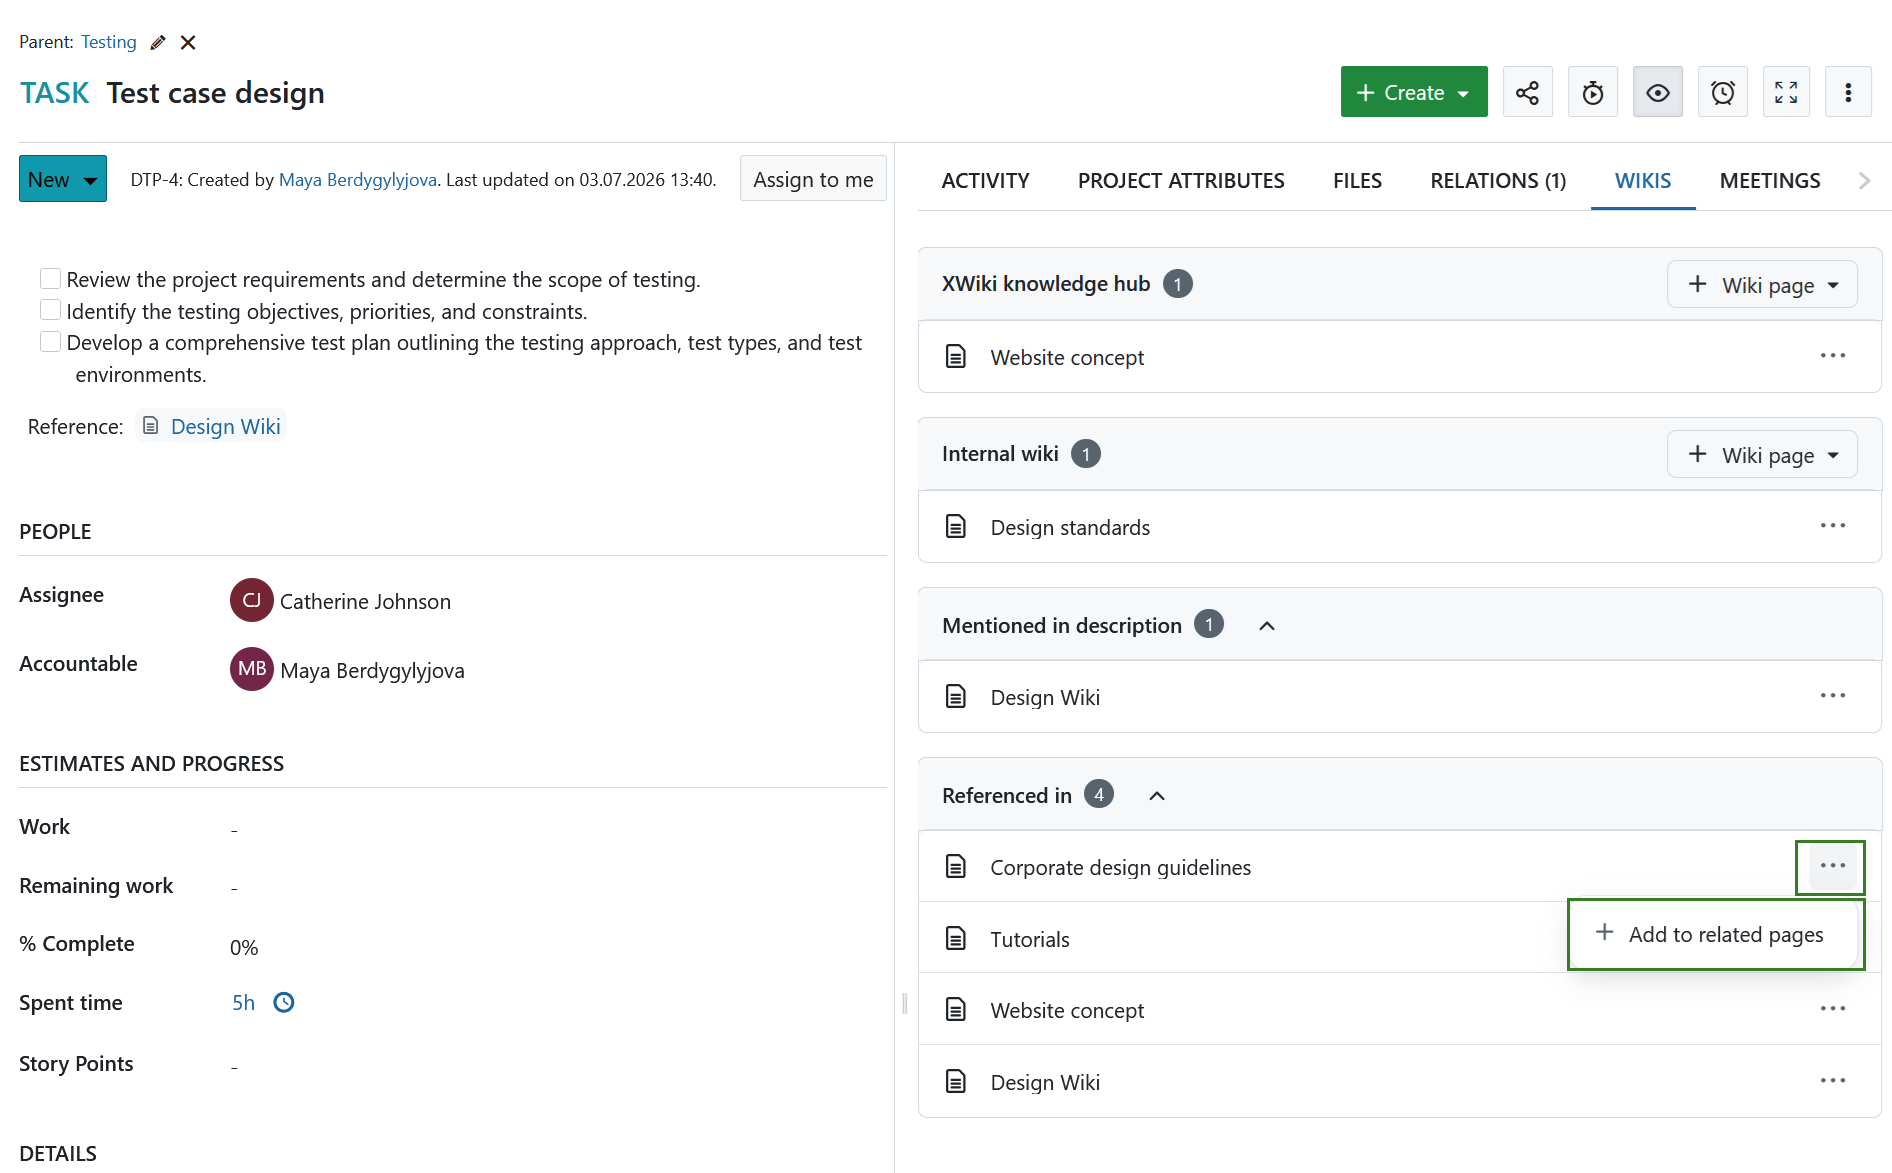
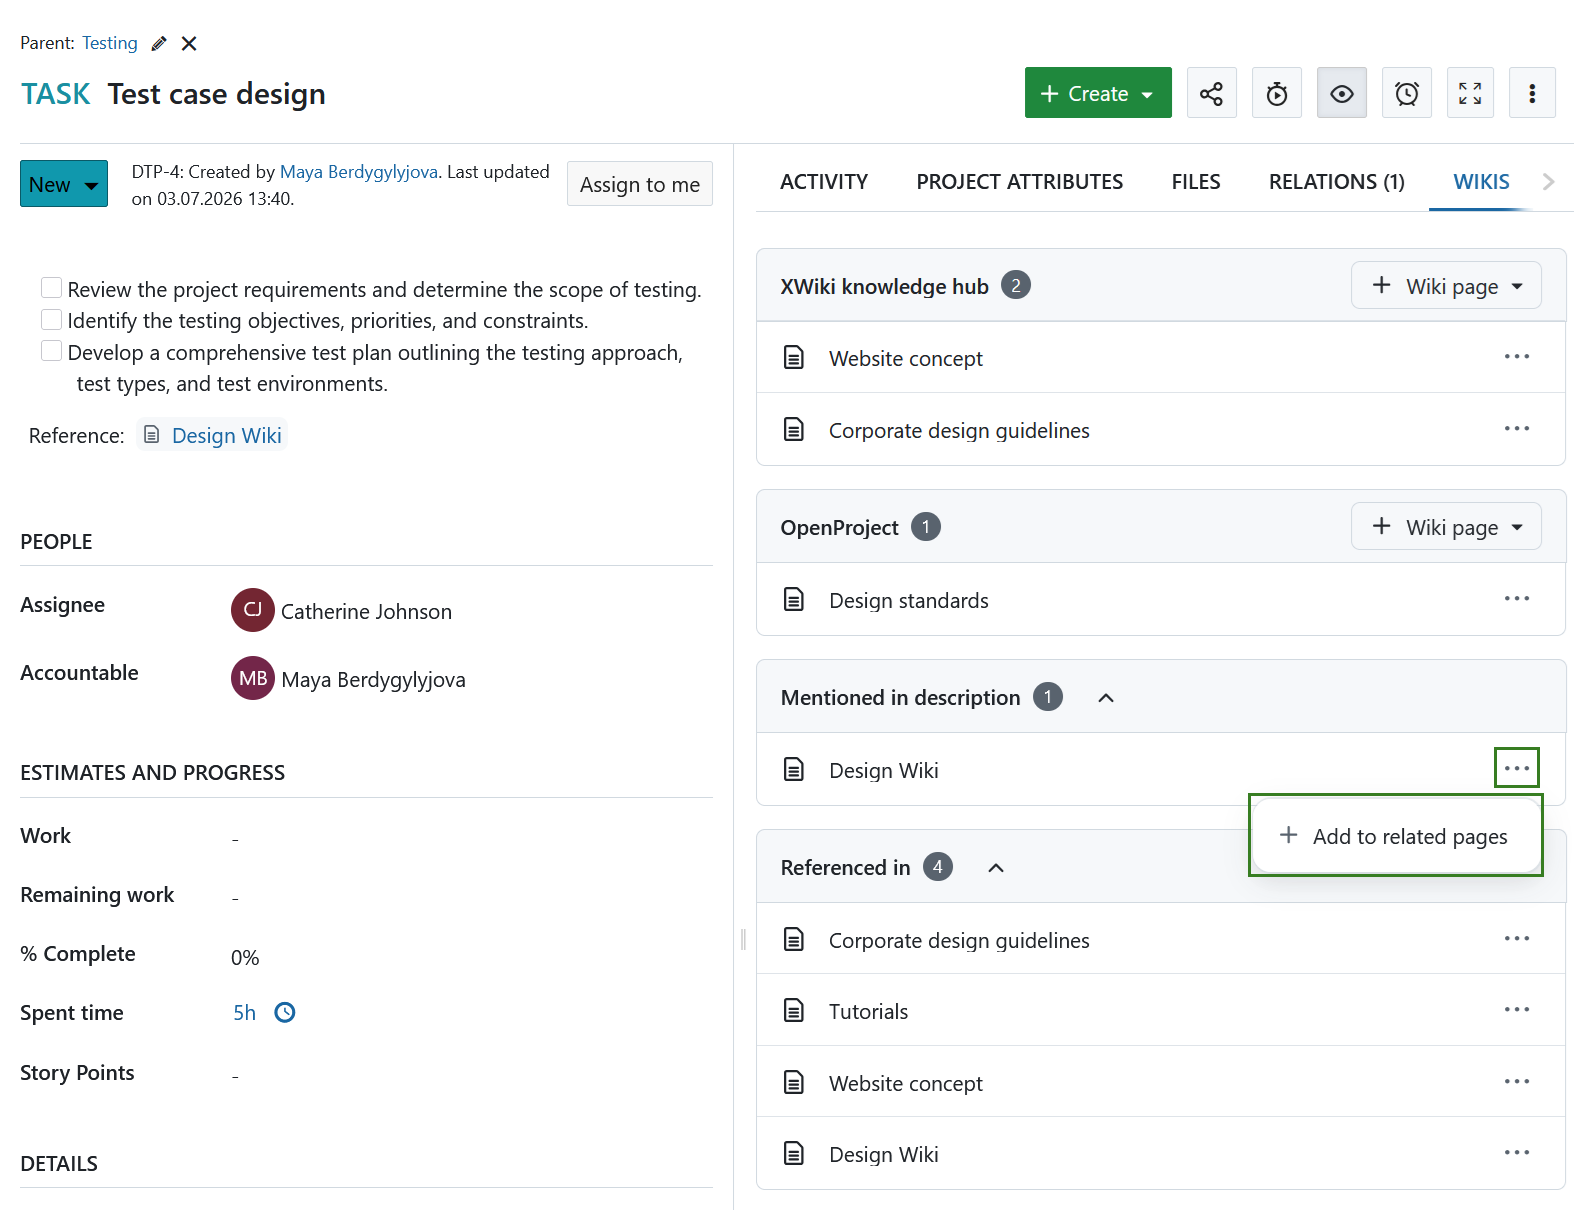
update

diff --git a/docs/user-guide/work-packages/edit-work-package/README.md b/docs/user-guide/work-packages/edit-work-package/README.md
@@ -108,7 +108,7 @@ The **Wikis** tab displays all wiki pages related to the work package.
 
 Depending on your configuration and existing links, it can contain the following sections:
 
-- One section for each configured wiki provider (for example, **Internal wiki** or **XWiki Knowledge Hub**) listing related wiki pages
+- One section for each configured wiki provider (for example, **OpenProject** or **XWiki Knowledge Hub**) listing related wiki pages
 - **Mentioned in description**
 - **Referenced in**
 
